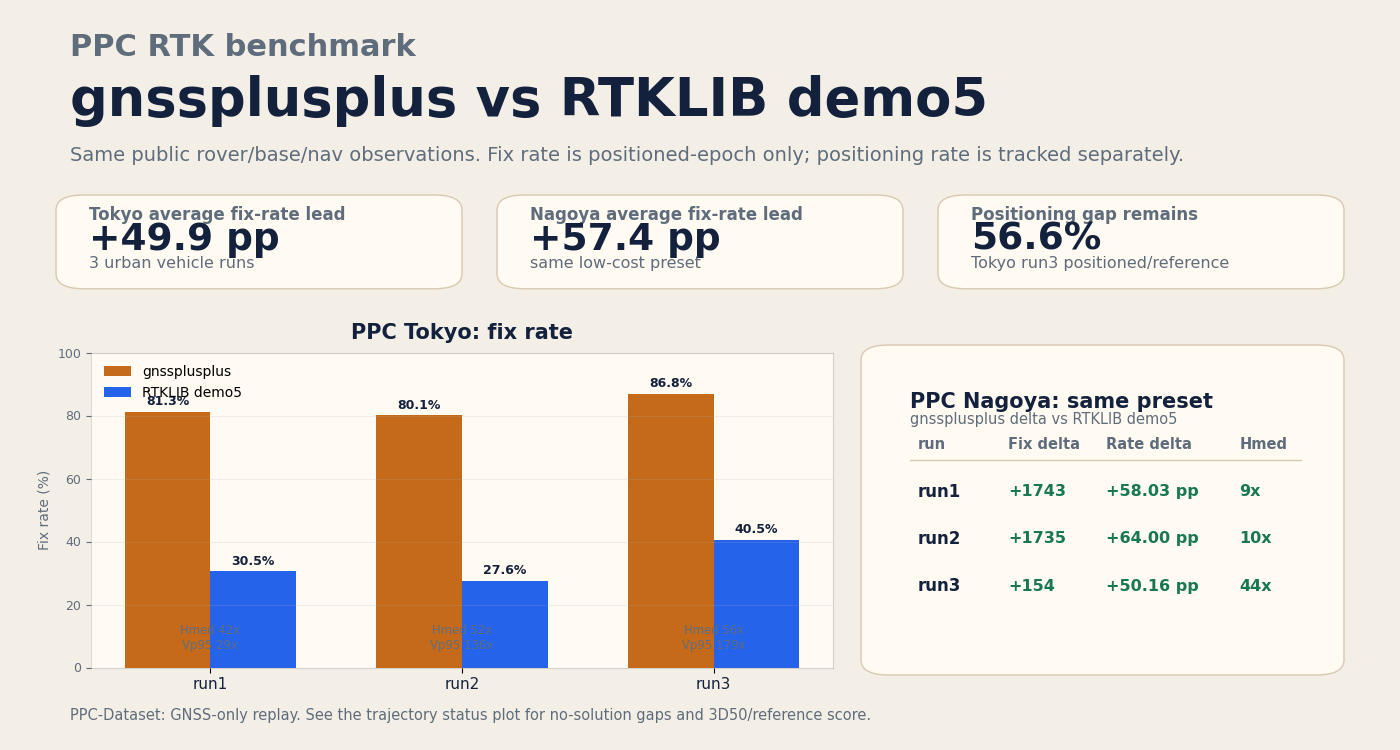
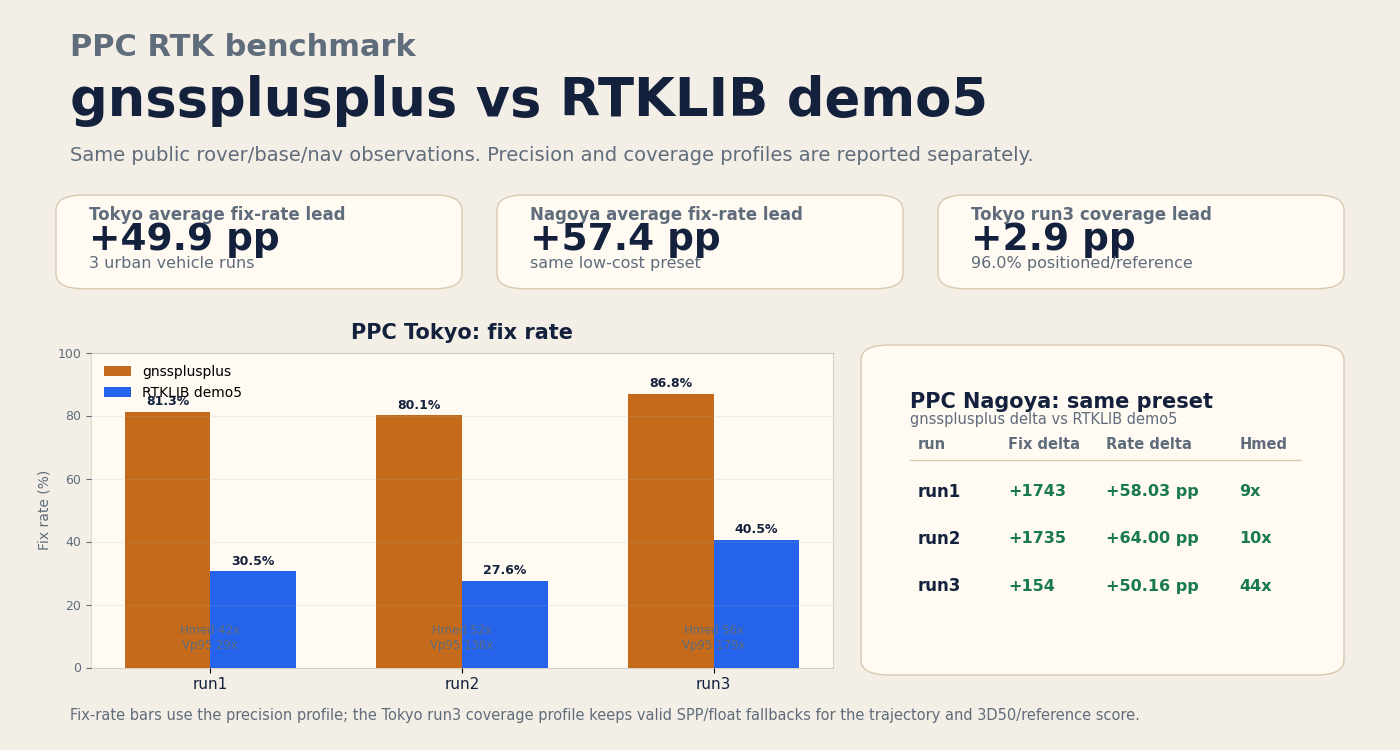
Add PPC RTK coverage profile

Changed region(s): [[0.0614, 0.92, 0.7986, 0.9813], [0.6757, 0.276, 0.8907, 0.368], [0.3379, 0.184, 0.86, 0.2147]]

diff --git a/tests/test_benchmark_scripts.py b/tests/test_benchmark_scripts.py
@@ -190,6 +190,7 @@ class PPCRTKSignoffHelpersTest(unittest.TestCase):
                 arfilter_margin=None,
                 min_hold_count=None,
                 hold_ratio_threshold=None,
+                no_kinematic_post_filter=True,
             )
             run_dir = temp_root / "tokyo" / "run1"
             out = temp_root / "solution.pos"
@@ -227,6 +228,7 @@ class PPCRTKSignoffHelpersTest(unittest.TestCase):
             self.assertIn("--arfilter", command)
             self.assertIn("--min-hold-count", command)
             self.assertIn("8", command)
+            self.assertIn("--no-kinematic-post-filter", command)
 
     def test_build_ppc_demo_command_passes_commercial_rover_flags(self) -> None:
         with tempfile.TemporaryDirectory(prefix="gnss_ppc_rtk_commercial_rover_") as temp_dir:
@@ -2260,6 +2262,7 @@ class PPCDemoTest(unittest.TestCase):
                 blq=None,
                 enable_ar=False,
                 low_dynamics=False,
+                no_kinematic_post_filter=True,
                 require_valid_epochs_min=3,
                 require_matched_epochs_min=3,
                 require_fix_rate_min=60.0,
@@ -2293,6 +2296,8 @@ class PPCDemoTest(unittest.TestCase):
 
             self.assertEqual(payload["dataset"], "PPC-Dataset tokyo run1")
             self.assertEqual(payload["solver"], "rtk")
+            self.assertEqual(payload["rtk_output_profile"], "coverage")
+            self.assertFalse(payload["kinematic_post_filter_enabled"])
             provenance = payload["receiver_observation_provenance"]
             self.assertEqual(provenance["vehicle_receiver"], "Septentrio mosaic-X5")
             self.assertEqual(provenance["vehicle_antenna"], "Trimble AT1675")

diff --git a/apps/gnss_ppc_demo.py b/apps/gnss_ppc_demo.py
@@ -150,6 +150,14 @@ def parse_args() -> argparse.Namespace:
         help="Optional ratio threshold used while hold is active for RTK.",
     )
     parser.add_argument(
+        "--no-kinematic-post-filter",
+        action="store_true",
+        help=(
+            "For RTK runs, keep valid SPP/float fallback epochs instead of applying "
+            "the precision-oriented kinematic post-filter."
+        ),
+    )
+    parser.add_argument(
         "--rtklib-bin",
         type=Path,
         default=None,
@@ -568,6 +576,8 @@ def run_solver(
             command.extend(["--min-hold-count", str(args.min_hold_count)])
         if args.hold_ratio_threshold is not None:
             command.extend(["--hold-ratio-threshold", str(args.hold_ratio_threshold)])
+        if getattr(args, "no_kinematic_post_filter", False):
+            command.append("--no-kinematic-post-filter")
     else:
         command = [
             *gnss_command,
@@ -636,6 +646,8 @@ def build_summary_payload(
         "nav": str(nav),
         "reference_csv": str(reference_csv),
         "receiver_observation_provenance": ppc_receiver_observation_provenance(args._dataset_city),
+        "rtk_output_profile": "coverage" if getattr(args, "no_kinematic_post_filter", False) else "precision",
+        "kinematic_post_filter_enabled": not getattr(args, "no_kinematic_post_filter", False),
         "solution_pos": str(out),
         "summary_json": str(summary_json),
         "generated_solution": not args.use_existing_solution,

diff --git a/scripts/generate_ppc_rtk_scorecard.py b/scripts/generate_ppc_rtk_scorecard.py
@@ -191,7 +191,7 @@ def main() -> int:
     ax.text(
         0.05,
         0.785,
-        "Same public rover/base/nav observations. Fix rate is positioned-epoch only; positioning rate is tracked separately.",
+        "Same public rover/base/nav observations. Precision and coverage profiles are reported separately.",
         fontsize=14,
         color=MUTED,
     )
@@ -222,9 +222,9 @@ def main() -> int:
         0.625,
         0.27,
         0.105,
-        "Positioning gap remains",
-        "56.6%",
-        "Tokyo run3 positioned/reference",
+        "Tokyo run3 coverage lead",
+        "+2.9 pp",
+        "96.0% positioned/reference",
     )
 
     left = fig.add_axes([0.065, 0.11, 0.53, 0.42], facecolor=PANEL)
@@ -237,7 +237,7 @@ def main() -> int:
     ax.text(
         0.05,
         0.04,
-        "PPC-Dataset: GNSS-only replay. See the trajectory status plot for no-solution gaps and 3D50/reference score.",
+        "Fix-rate bars use the precision profile; the Tokyo run3 coverage profile keeps valid SPP/float fallbacks for the trajectory and 3D50/reference score.",
         fontsize=10.5,
         color=MUTED,
     )

diff --git a/apps/gnss_ppc_rtk_signoff.py b/apps/gnss_ppc_rtk_signoff.py
@@ -141,6 +141,7 @@ def parse_args() -> argparse.Namespace:
     parser.add_argument("--arfilter-margin", type=float, default=None)
     parser.add_argument("--min-hold-count", type=int, default=None)
     parser.add_argument("--hold-ratio-threshold", type=float, default=None)
+    parser.add_argument("--no-kinematic-post-filter", action="store_true")
 
     parser.add_argument("--require-valid-epochs-min", type=int, default=None)
     parser.add_argument("--require-matched-epochs-min", type=int, default=None)
@@ -316,6 +317,8 @@ def build_ppc_demo_command(args: argparse.Namespace,
         command.extend(["--min-hold-count", str(tuning["min_hold_count"])])
     if "hold_ratio_threshold" in tuning:
         command.extend(["--hold-ratio-threshold", str(tuning["hold_ratio_threshold"])])
+    if getattr(args, "no_kinematic_post_filter", False):
+        command.append("--no-kinematic-post-filter")
 
     for name, value in thresholds.items():
         command.extend([f"--{name.replace('_', '-')}", str(value)])

diff --git a/README.md b/README.md
@@ -53,11 +53,12 @@ RTKLIB `demo5`. It is **not** a proprietary receiver-engine comparison.
 
 On PPC Tokyo and Nagoya, gnssplusplus `develop` (post PR #19-#23) dominates
 RTKLIB `demo5` on positioned-epoch precision and Fix rate with **no Phase 2
-opt-in flags**, but Positioning rate is now tracked as a separate first-class
-metric because no-solution gaps still matter. UrbanNav Tokyo Odaiba is kept as
-an independent public urban stress smoke: gnssplusplus wins Fix count, Hp95,
-and Vp95 there, while the Hmed gap closes to 9 cm when wide-lane AR is
-explicitly enabled.
+opt-in flags**. Positioning rate is tracked as a separate first-class metric:
+the Tokyo run3 coverage profile keeps valid SPP/float fallback epochs and now
+exceeds RTKLIB `demo5` on both Positioning rate and 3D<=50cm/reference score.
+UrbanNav Tokyo Odaiba is kept as an independent public urban stress smoke:
+gnssplusplus wins Fix count, Hp95, and Vp95 there, while the Hmed gap closes to
+9 cm when wide-lane AR is explicitly enabled.
 
 All runs below use `--mode kinematic --preset low-cost --match-tolerance-s
 0.25`.
@@ -86,14 +87,15 @@ observation solve against reference truth.
 
 The 2D sanity plot below uses the PPC Tokyo run3 open data (Harumi-Odaiba).
 Points are colored by RTK solution status, and no IMU input is used by this
-GNSS-only RTK replay. This exposes the current gap: gnssplusplus is precise
-when it positions, but it does **not** yet position every reference epoch.
-Therefore Fix rate and Positioning rate are tracked separately.
+GNSS-only RTK replay. The coverage profile is run with
+`--no-kinematic-post-filter`, so valid SPP/float fallback epochs are retained
+instead of being dropped by the precision-oriented output filter.
 
-| Solver | Positioning rate | 3D <= 50 cm / reference | 3D <= 50 cm / positioned |
-|---|---:|---:|---:|
-| RTKLIB `demo5` | 93.1% | 39.9% | 42.8% |
-| gnssplusplus | 56.6% | 55.3% | 97.7% |
+| Solver/profile | Positioning rate | Fix rate | 3D <= 50 cm / reference | 3D <= 50 cm / positioned |
+|---|---:|---:|---:|---:|
+| RTKLIB `demo5` | 93.1% | 40.5% | 39.9% | 42.8% |
+| gnssplusplus coverage | **96.0%** | **60.2%** | **63.5%** | **66.1%** |
+| gnssplusplus precision | 56.6% | 86.8% | 55.3% | 97.7% |
 
 PPC2024's official score is a distance ratio with 3D error <= 50 cm; the
 published first-place result was 78.7% Public / 85.6% Private in

diff --git a/docs/benchmarks.md b/docs/benchmarks.md
@@ -2,7 +2,9 @@
 
 gnssplusplus `develop` (post PR #19-#23) leads RTKLIB `demo5` on PPC
 positioned-epoch precision and Fix rate with no Phase 2 opt-in flags.
-Positioning rate is tracked separately because no-solution gaps still matter.
+Positioning rate is tracked separately because no-solution gaps still matter;
+the Tokyo run3 coverage profile keeps valid SPP/float fallback epochs and now
+exceeds RTKLIB `demo5` on both Positioning rate and 3D<=50cm/reference score.
 PPC is the primary public RTK benchmark here because it bundles survey-grade
 receiver observations, reference-station observations, broadcast navigation
 data, and reliable trajectory truth. It is not used as a proprietary
@@ -49,15 +51,15 @@ about matching a proprietary receiver RTK engine.
 | run3 | **7516 / 86.84%**       | 5778 / 40.55%     | **0.012** vs 0.666 (56×) | **0.137** vs 24.521 (179×) |
 
 PPC Tokyo run3 is also checked visually as a 2D status-colored trajectory.
-The replay uses GNSS observations only, with no IMU input. This exposes the
-current gap: gnssplusplus is precise when it positions, but it does not yet
-position every reference epoch. Fix rate and Positioning rate are tracked
-separately.
+The replay uses GNSS observations only, with no IMU input. The coverage profile
+is run with `--no-kinematic-post-filter`, so valid SPP/float fallback epochs are
+retained instead of being dropped by the precision-oriented output filter.
 
-| Solver | Positioning rate | 3D <= 50 cm / reference | 3D <= 50 cm / positioned |
-|---|---:|---:|---:|
-| RTKLIB `demo5` | 93.1% | 39.9% | 42.8% |
-| gnssplusplus | 56.6% | 55.3% | 97.7% |
+| Solver/profile | Positioning rate | Fix rate | 3D <= 50 cm / reference | 3D <= 50 cm / positioned |
+|---|---:|---:|---:|---:|
+| RTKLIB `demo5` | 93.1% | 40.5% | 39.9% | 42.8% |
+| gnssplusplus coverage | **96.0%** | **60.2%** | **63.5%** | **66.1%** |
+| gnssplusplus precision | 56.6% | 86.8% | 55.3% | 97.7% |
 
 PPC2024's official score is a distance ratio with 3D error <= 50 cm; the
 published first-place result was 78.7% Public / 85.6% Private in

diff --git a/docs/validation.md b/docs/validation.md
@@ -83,7 +83,9 @@ antenna provenance under `receiver_observation_provenance`; proprietary
 receiver-engine solutions are intentionally not the benchmark target. It also
 reports `positioning_rate_pct` separately from `fix_rate_pct`, so no-solution
 gaps cannot be hidden by a high fixed-solution ratio over only positioned
-epochs.
+epochs. Use `--no-kinematic-post-filter` when validating the RTK coverage
+profile; that keeps valid SPP/float fallback epochs and records
+`rtk_output_profile: coverage` in the summary JSON.
 
 `gnss smartloc-adapter` widens the public matrix beyond UrbanNav by exporting
 smartLoc `NAV-POSLLH.csv` into a `reference.csv` plus a normalized u-blox
